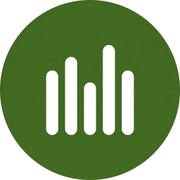
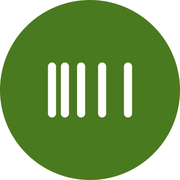
fix(branding): use the correct RevisionWorks mark everywhere
The previous branding pass mistakenly standardized on logo-icon.png
(unequal-height bars) instead of logo-icon-original.png (equal-height,
tally-style bars matching the wordmark banners). Revert: header, all 5
auth pages, favicon, app icon, apple-icon, OG/Twitter card, and PWA
any+maskable icons now all derive from logo-icon-original.png, which
is already alpha-transparent so no masking step is needed. Removes the
wrong-source logo-icon-transparent.png derivative.

Changed region(s): [[0.25, 0.25, 0.75, 0.75]]

diff --git a/apps/frontend/app/(auth)/register/page.tsx b/apps/frontend/app/(auth)/register/page.tsx
@@ -99,7 +99,7 @@ export default function RegisterPage() {
       <div className={`auth-card ${step === 'domain' ? 'auth-card--wide' : ''}`}>
         {/* Logo */}
         <div className="auth-brand">
-          <Image className="auth-brand-icon" src="/logo-icon-transparent.png" alt="" width={36} height={36} priority />
+          <Image className="auth-brand-icon" src="/logo-icon-original.png" alt="" width={36} height={36} priority />
           <span className="auth-brand-name">RevisionWorks</span>
         </div>
 

diff --git a/apps/frontend/app/(auth)/forgot-password/page.tsx b/apps/frontend/app/(auth)/forgot-password/page.tsx
@@ -26,7 +26,7 @@ export default function ForgotPasswordPage() {
       <div className="auth-glow auth-glow--b" />
       <div className="auth-card">
         <div className="auth-brand">
-          <Image className="auth-brand-icon" src="/logo-icon-transparent.png" alt="" width={36} height={36} priority />
+          <Image className="auth-brand-icon" src="/logo-icon-original.png" alt="" width={36} height={36} priority />
           <span className="auth-brand-name">RevisionWorks</span>
         </div>
 

diff --git a/apps/frontend/app/(auth)/reset-password/page.tsx b/apps/frontend/app/(auth)/reset-password/page.tsx
@@ -38,7 +38,7 @@ function ResetPasswordInner() {
       <div className="auth-glow auth-glow--b" />
       <div className="auth-card">
         <div className="auth-brand">
-          <Image className="auth-brand-icon" src="/logo-icon-transparent.png" alt="" width={36} height={36} priority />
+          <Image className="auth-brand-icon" src="/logo-icon-original.png" alt="" width={36} height={36} priority />
           <span className="auth-brand-name">RevisionWorks</span>
         </div>
 

diff --git a/apps/frontend/app/(auth)/verify-email/page.tsx b/apps/frontend/app/(auth)/verify-email/page.tsx
@@ -43,7 +43,7 @@ function VerifyEmailInner() {
       <div className="auth-glow auth-glow--b" />
       <div className="auth-card">
         <div className="auth-brand">
-          <Image className="auth-brand-icon" src="/logo-icon-transparent.png" alt="" width={36} height={36} priority />
+          <Image className="auth-brand-icon" src="/logo-icon-original.png" alt="" width={36} height={36} priority />
           <span className="auth-brand-name">RevisionWorks</span>
         </div>
 

diff --git a/apps/frontend/app/(auth)/login/page.tsx b/apps/frontend/app/(auth)/login/page.tsx
@@ -40,7 +40,7 @@ export default function LoginPage() {
       <div className="auth-card">
         {/* Logo / brand */}
         <div className="auth-brand">
-          <Image className="auth-brand-icon" src="/logo-icon-transparent.png" alt="" width={36} height={36} priority />
+          <Image className="auth-brand-icon" src="/logo-icon-original.png" alt="" width={36} height={36} priority />
           <span className="auth-brand-name">RevisionWorks</span>
         </div>
 

diff --git a/apps/frontend/components/layout/AppShell.tsx b/apps/frontend/components/layout/AppShell.tsx
@@ -34,7 +34,7 @@ export function AppShell({ children }: { children: React.ReactNode }) {
             <Link href="/" className="group flex shrink-0 items-center gap-3">
               {/* Brand mark */}
               <Image
-                src="/logo-icon-transparent.png"
+                src="/logo-icon-original.png"
                 alt="RevisionWorks"
                 width={28}
                 height={28}

diff --git a/docs/superpowers/specs/2026-07-23-revisionworks-logo-integration-design.md b/docs/superpowers/specs/2026-07-23-revisionworks-logo-integration-design.md
@@ -71,20 +71,29 @@ manifest — all delivered in the batch below.
   `viewport.themeColor` and `appleWebApp` metadata to the root layout. Aligns with
   `2026-07-19-mobile-app-twa-design.md`.
 
-### Icon-consistency correction
+### Icon-consistency correction (superseded — see below)
 
-The user supplied two marks: `revisionworks-icon.png` (polished, **varying-height** bars) and
-`revisionworks-icon-original.png` (flat, **equal** bars). The header used the polished one but
-the favicon / OG / PWA / email icons had been built from the flat one — a visible mismatch.
-Fixed by masking the polished icon to a transparent circle
-(`public/logo-icon-transparent.png`, inscribed-circle alpha mask) and regenerating **every**
-derived asset (favicon.ico, app/icon.png, OG card, PWA `any` + `maskable` icons) plus the
-header and auth-page `<img>` sources from that single master. All surfaces now show the
-polished varying-height mark.
+The user supplied two marks: `revisionworks-icon.png` (**unequal-height** bars, even spacing,
+bar-chart style) and `revisionworks-icon-original.png` (**equal-height** bars, tally-style
+spacing — 4 grouped, 1 separated — matching the banner wordmark). The header was already
+using the correct mark (`logo-icon-original.png`), but the favicon / OG / PWA / email icons
+had been built from `logo-icon-original.png` too at that point — this first "correction" pass
+misidentified `logo-icon.png` as the "polished, correct" one and propagated *it* everywhere
+instead, making every surface wrong. Reverted below.
 
-**Verification:** frontend + auth-service `tsc` clean; auth email tests pass; app +
-auth-service rebuilt and restarted; every asset serves 200 and `manifest.webmanifest` is
-correct; login page, email, favicon and OG card visually confirmed showing the polished mark.
+### Icon-consistency correction, take two (2026-07-23, later same day)
+
+`revisionworks-icon-original.png` (equal-height, tally-style bars) is the correct brand mark —
+it matches the wordmark banners; `logo-icon.png` is a different, unrelated asset and is not
+used anywhere in the app. Regenerated every derived asset (favicon.ico, app/icon.png,
+apple-icon.png, OG/Twitter card, PWA `any` + `maskable` icons) from `logo-icon-original.png`
+directly — it's already alpha-transparent outside its circle, so no masking step is needed.
+Header and all five auth pages point at `/logo-icon-original.png`. Deleted the
+`logo-icon-transparent.png` derivative (was masked from the wrong source).
+
+**Verification:** `tsc` clean; app container rebuilt and restarted; every regenerated asset
+serves 200; fresh cache-busted screenshots of the header and the extracted favicon both show
+the correct equal-height tally-style mark.
 
 ## Design
 
